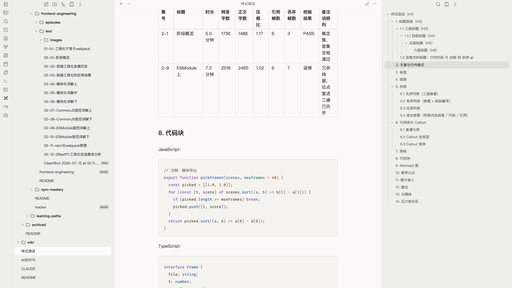
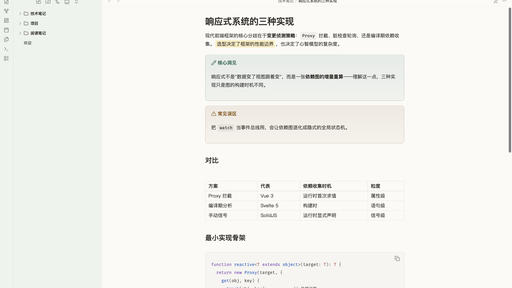
Fix LP embed-block hover radius; demo-vault screenshots
- .cm-embed-block hosts (callout/mermaid) now match content radius —
  hover outline no longer shows square corners around rounded cards
- Store screenshots regenerated from a neutral demo vault
  (no personal vault content)

Claude-Session: https://claude.ai/code/session_015NnADoNCE8e1Ud6c7qL4U2

diff --git a/theme.css b/theme.css
@@ -1667,6 +1667,16 @@ body.theme-dark input[data-task="?"].task-list-item-checkbox:checked {
   color: var(--text-normal);
 }
 
+/* LP 悬停外框圆角对齐（v3.4.1，用户实锤四角穿帮）：callout 在实时预览里
+   由 .cm-embed-block 宿主承载，宿主默认 r0——hover 的方角描边套在 10px
+   圆角卡外面。宿主圆角对齐内容物；mermaid 宿主同病同修（6px）。 */
+.markdown-source-view.mod-cm6 .cm-embed-block.cm-callout {
+  border-radius: var(--jadeveil-radius-m);
+}
+.markdown-source-view.mod-cm6 .cm-embed-block:has(> .mermaid) {
+  border-radius: 6px;
+}
+
 /* ═══════════════════════════ 5. Chrome Glass ═══════════════════════════
    级联结构：「退化态为基底、玻璃态为高特异性覆盖」。
 